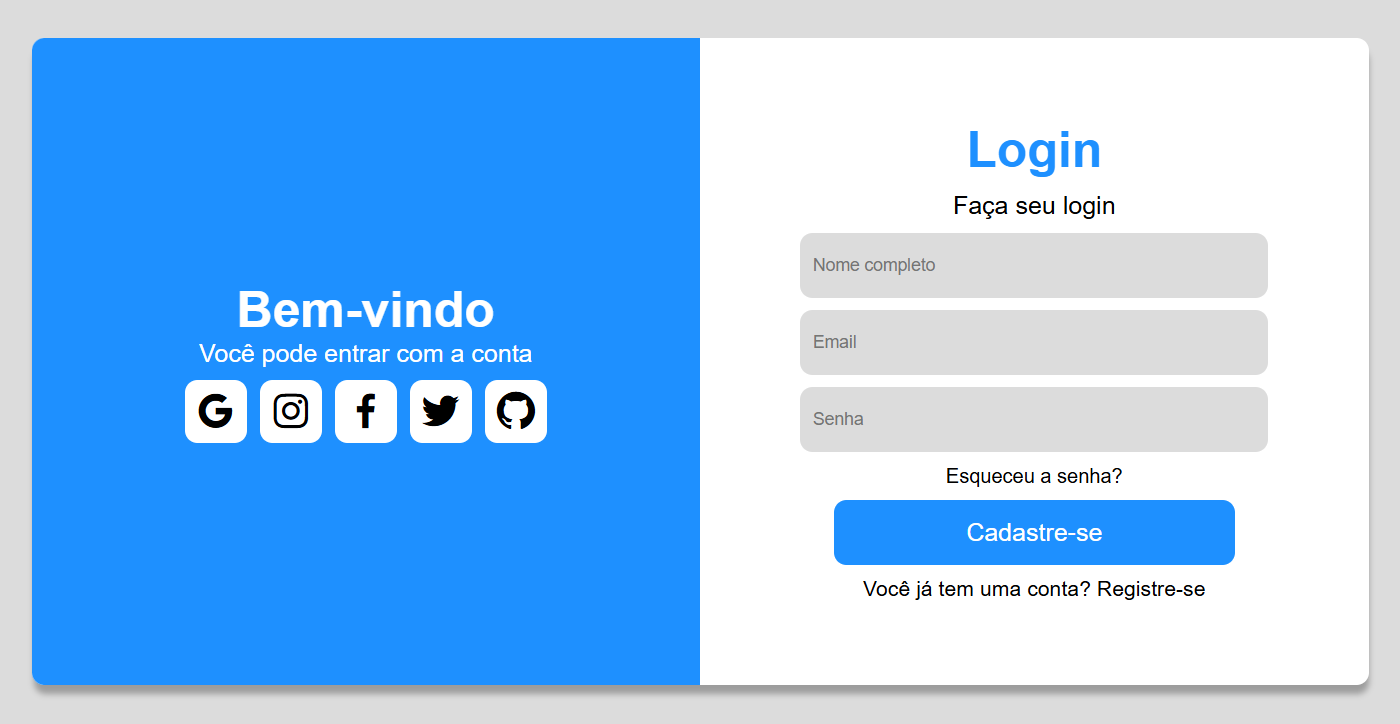
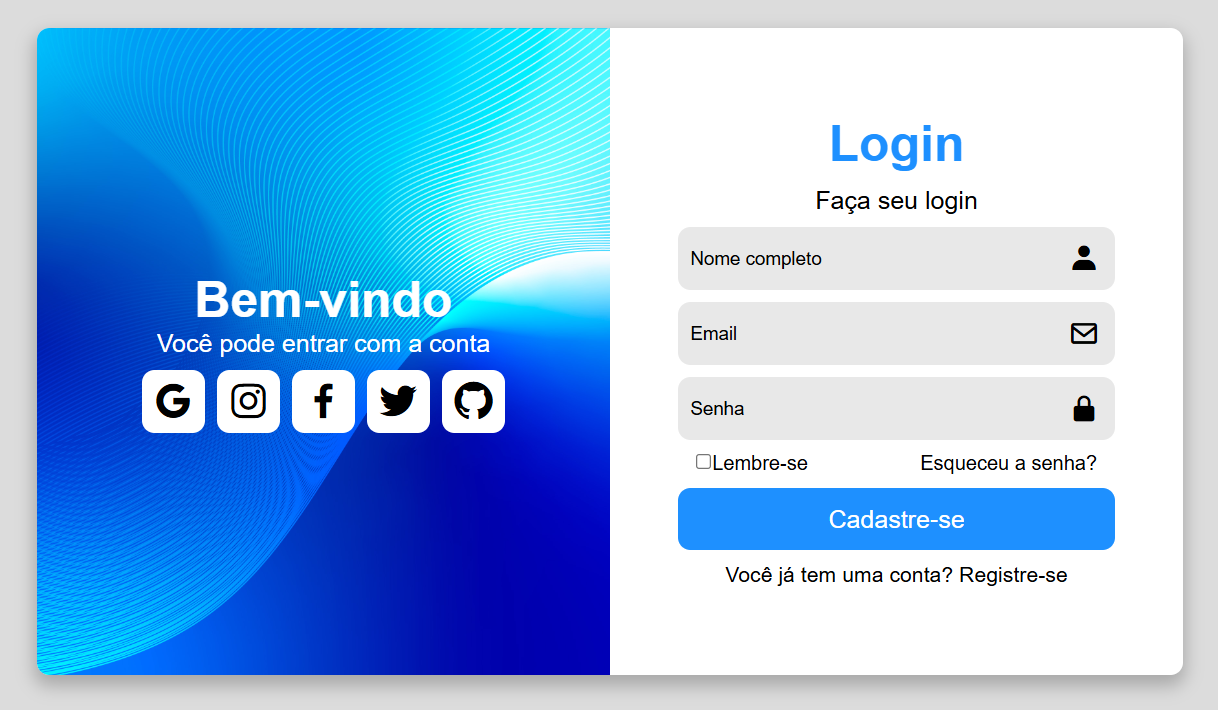
projeto_09_atualizado

diff --git a/Login_moderno/style.css b/Login_moderno/style.css
@@ -16,21 +16,21 @@ body{
 
 /*---------Login---------*/
 .login{
-    width: 70%;
+    width: 60%;
     height: 70vh;
     display: flex;
     align-items: center;
     justify-content: center;
     border-radius: 10px;
     background-color: white;
-    -webkit-box-shadow: 1px 8px 5px -1px rgba(0,0,0,0.29);
-    -moz-box-shadow: 1px 8px 5px -1px rgba(0,0,0,0.29);
-    box-shadow: 1px 8px 5px -1px rgba(0,0,0,0.29);
+    -webkit-box-shadow: 0px 7px 14px 2px rgba(0,0,0,0.24);
+    -moz-box-shadow: 0px 7px 14px 2px rgba(0,0,0,0.24);
+    box-shadow: 0px 7px 14px 2px rgba(0,0,0,0.24);
 }
 
 /*---------Titulo---------*/
 .titulo{
-    width: 60%;
+    width: 50%;
     height: 70vh;
     display: flex;
     align-items: center;
@@ -39,7 +39,9 @@ body{
     color: white;
     border-top-left-radius: 10px;
     border-bottom-left-radius: 10px;
-    background-color: dodgerblue;
+    background-image: url(./Background.jpg);
+    background-position: center;
+    background-size: cover;
 }
 
 .titulo h1{
@@ -74,7 +76,7 @@ body{
 
 /*---------Info---------*/
 .info{
-    width: 60%;
+    width: 50%;
     height: 70vh;
     display: flex;
     align-items: center;
@@ -92,21 +94,48 @@ body{
     margin-top: 10px;
 }
 
-.info input{
-    width: 70%;
-    height: 7vh;
+/*---------Input---------*/
+.inputs{
+    width: 350px;
+    height: 50px;
+    display: flex;
+    align-items: center;
+    justify-content: center;
+    margin-top: 10px;
+    border-radius: 10px;
+    background-color: rgb(232, 232, 232);
+}
+
+.inputs input{
+    width: 300px;
+    height: 50px;
     border: none;
     outline: none;
-    border-radius: 10px;
-    margin-top: 10px;
-    background-color: gainsboro;
-    color: black;
+    background-color: transparent;
     padding: 0 10px;
-    font-size: 14px;
+    font-size: 15px;
+}
+
+.inputs input::placeholder{
+    color: black;
+}
+
+/*---------Icon---------*/
+.inputs i{
+    width: 50px;
+    height: 50px;
+    display: flex;
+    align-items: center;
+    justify-content: center;
+    font-size: 25px;
 }
 
 /*---------Link---------*/
 .link{
+    display: flex;
+    align-items: center;
+    justify-content: center;
+    gap: 90px;
     margin-top: 10px;
 }
 
@@ -120,10 +149,10 @@ body{
     color: dodgerblue;
 }
 
-/*---------Botão---------*/
+/*---------Botão_de_cadastro---------*/
 .info button{
-    width: 60%;
-    height: 7vh;
+    width: 350px;
+    height: 50px;
     border: none;
     outline: none;
     border-radius: 10px;

diff --git a/Login_moderno/index.html b/Login_moderno/index.html
@@ -23,10 +23,20 @@
         <div class="info">
             <h2>Login</h2>
             <p>Faça seu login</p>
-            <input type="text" placeholder="Nome completo">
-            <input type="email" placeholder="Email">
-            <input type="password" placeholder="Senha">
+            <div class="inputs">
+                <input type="text" placeholder="Nome completo">
+                <i class='bx bxs-user'></i>
+            </div>
+            <div class="inputs">
+                <input type="email" placeholder="Email">
+                <i class='bx bx-envelope'></i>
+            </div>
+            <div class="inputs">
+                <input type="password" placeholder="Senha">
+                <i class='bx bxs-lock-alt'></i>
+            </div>
             <div class="link">
+                <label for=""><input type="checkbox">Lembre-se</label>
                 <a href="#">Esqueceu a senha?</a>
             </div>
             <button>Cadastre-se</button>
